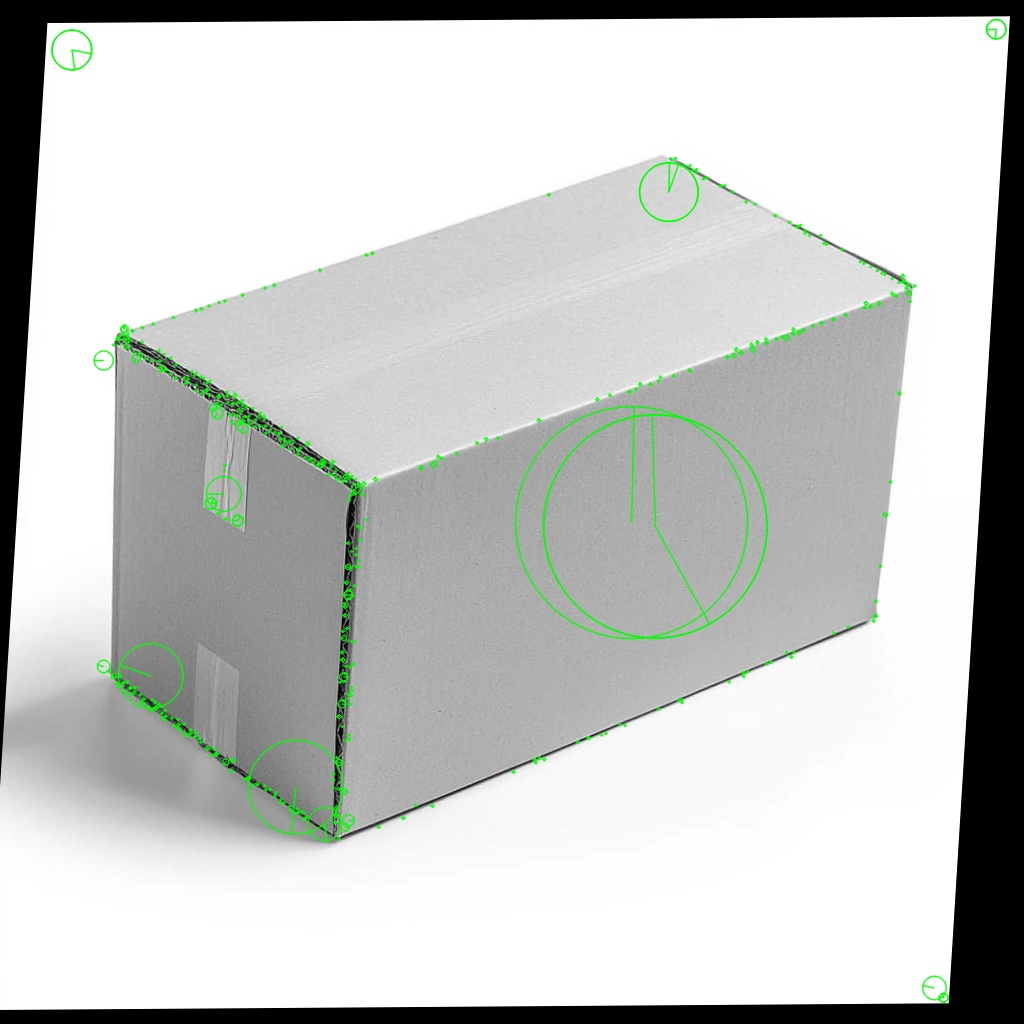
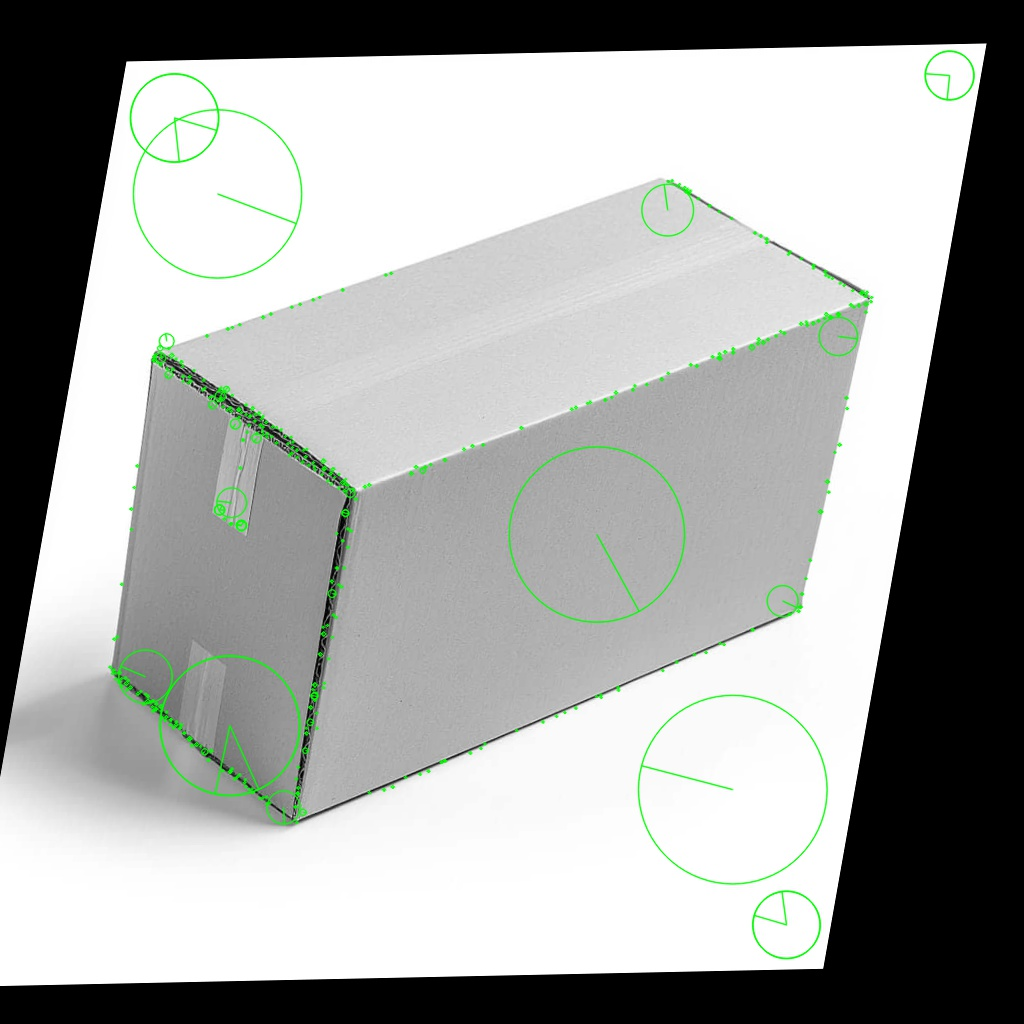
update superpoint superposition

diff --git a/keypoint/program/superpoint.py b/keypoint/program/superpoint.py
@@ -12,7 +12,7 @@ h, w = gray.shape
 # construct affine transform
 def random_affine():
     pts1 = np.float32([[0, 0], [w, 0], [0, h]])
-    perturb = np.random.normal(0, 30, (3, 2)).astype(np.float32)
+    perturb = np.random.normal(0, 80, (3, 2)).astype(np.float32)
     pts2 = pts1 + perturb
     return cv.getAffineTransform(pts1, pts2)
 
@@ -23,10 +23,12 @@ detector = cv.SIFT_create()
 images = []
 keypoints_all = []
 colors = [(0, 0, 255), (0, 255, 0), (255, 0, 0)]  # Red, Green, Blue
+affine_matrices = [] 
 
 # detect keypoints
 for i in range(3):
     M = random_affine()
+    affine_matrices.append(M)
     warped = cv.warpAffine(gray, M, (w, h))
     kp = detector.detect(warped, None)
     keypoints_all.append((kp, colors[i]))
@@ -38,10 +40,21 @@ for i in range(3):
 
 # superpose keypoints to original image
 img_combined = cv.cvtColor(gray, cv.COLOR_GRAY2BGR)
-for kp_list, color in keypoints_all:
-    img_combined = cv.drawKeypoints(img_combined, kp_list, img_combined,
-                                     color=color,
-                                     flags=cv.DRAW_MATCHES_FLAGS_DRAW_RICH_KEYPOINTS)
+fimg_combined = cv.cvtColor(gray, cv.COLOR_GRAY2BGR)
+
+for (kp_list, color), M in zip(keypoints_all, affine_matrices):
+    M_inv = cv.invertAffineTransform(M)
+    corrected_kp = []
+    for kp in kp_list:
+        pt = np.array([kp.pt[0], kp.pt[1], 1.0])  # Homogeneous coord
+        x, y = np.dot(M_inv, pt)
+        new_kp = cv.KeyPoint(x, y, kp.size, kp.angle, kp.response, kp.octave, kp.class_id)
+        corrected_kp.append(new_kp)
+
+    img_combined = cv.drawKeypoints(img_combined, corrected_kp, img_combined,
+                                    color=color,
+                                    flags=cv.DRAW_MATCHES_FLAGS_DRAW_RICH_KEYPOINTS)
+
 
 # store and show result
 cv.imwrite('../image_result/combined_keypoints.jpg', img_combined)
